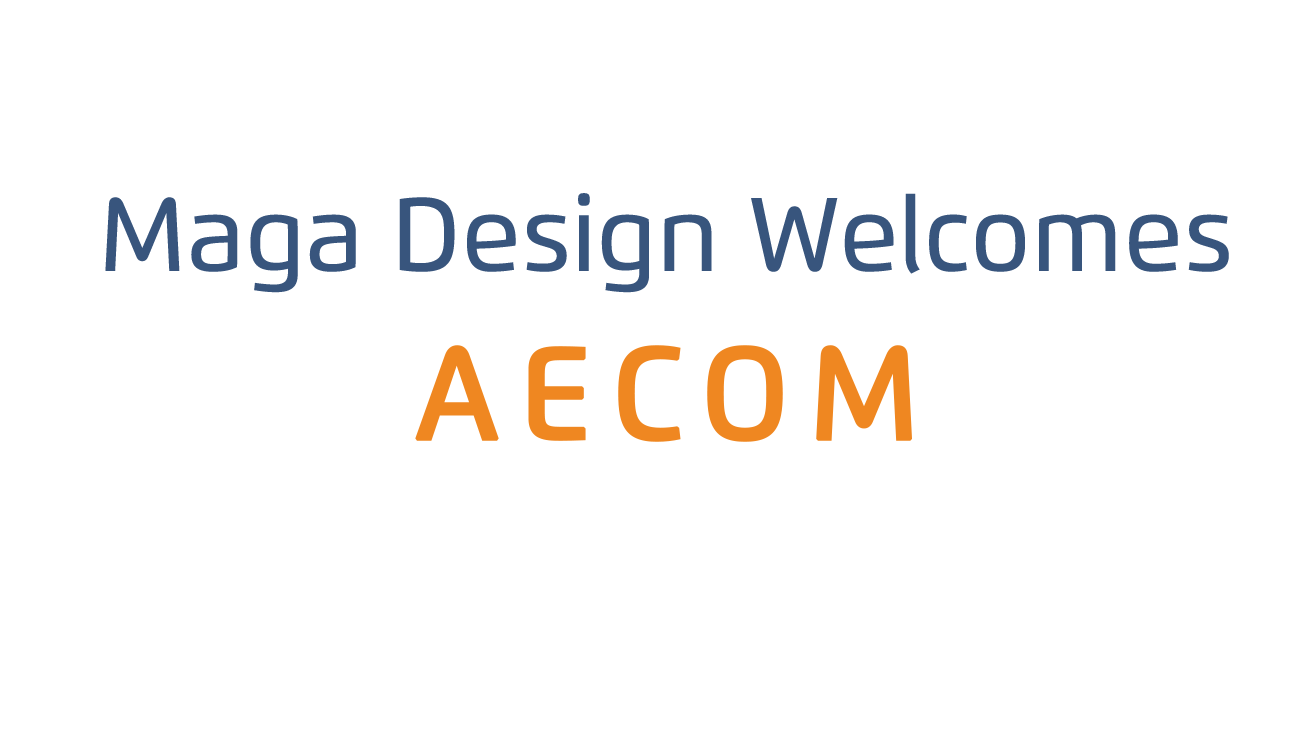
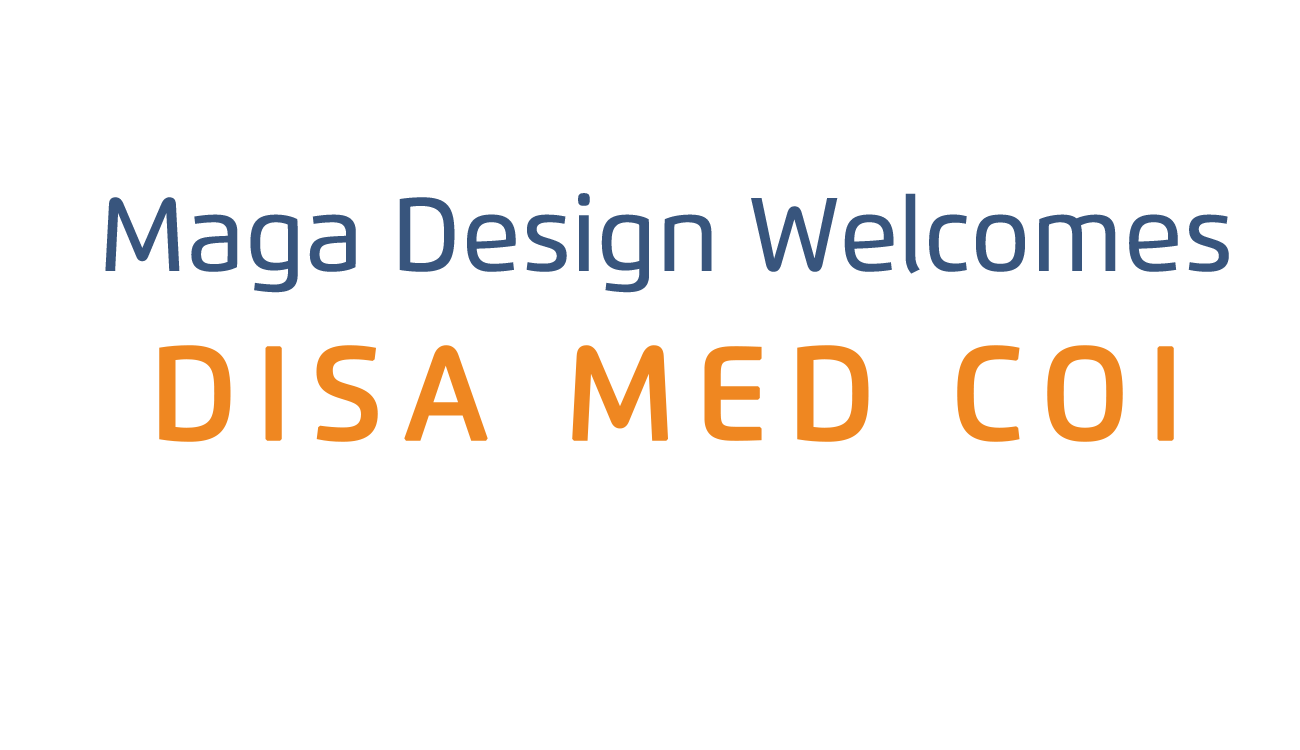
added med coo slide

Changed region(s): [[0.1231, 0.46, 0.7077, 0.6133], [0.7385, 0.46, 0.9231, 0.6133]]

diff --git a/index.html b/index.html
@@ -148,7 +148,7 @@
 			<div id="slide2" class="slide"></div>
 			<div id="slide3" class="slide"></div>
 			<div id="slide4" class="slide"></div>
-			<!--<div id="slide5" class="slide"></div><!--welcome screen--> 
+			<div id="slide5" class="slide"></div><!--welcome screen--> 
 		</div><!--wrapper ends-->
 
 		<div class="maga-logo"><div id="authorize-button">Log In</div><div id="authorize-button-logout"><a href="https://accounts.google.com/logout">Log Out</a></div>

diff --git a/style.css b/style.css
@@ -51,7 +51,7 @@ body {
 
 .wrapper {
 	height: 850px;
-	width: 5300px;  /*6500 with welcome screen && 5300 without welcome screen */
+	width: 6500px;  /*6500 with welcome screen && 5300 without welcome screen */
 }
 
 p {
